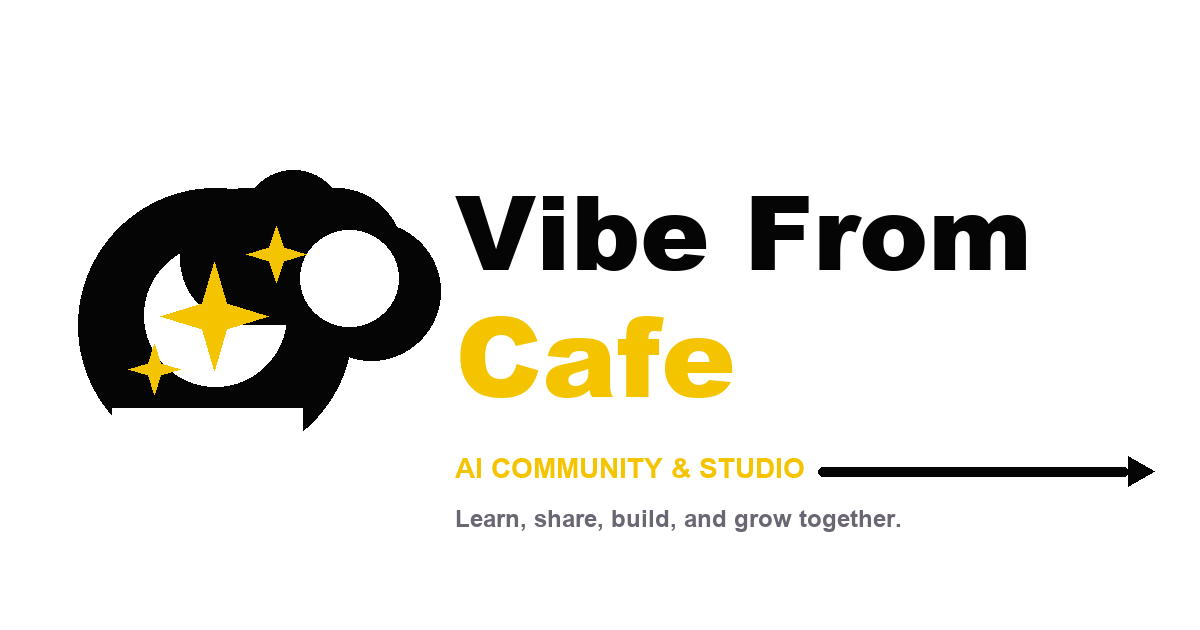
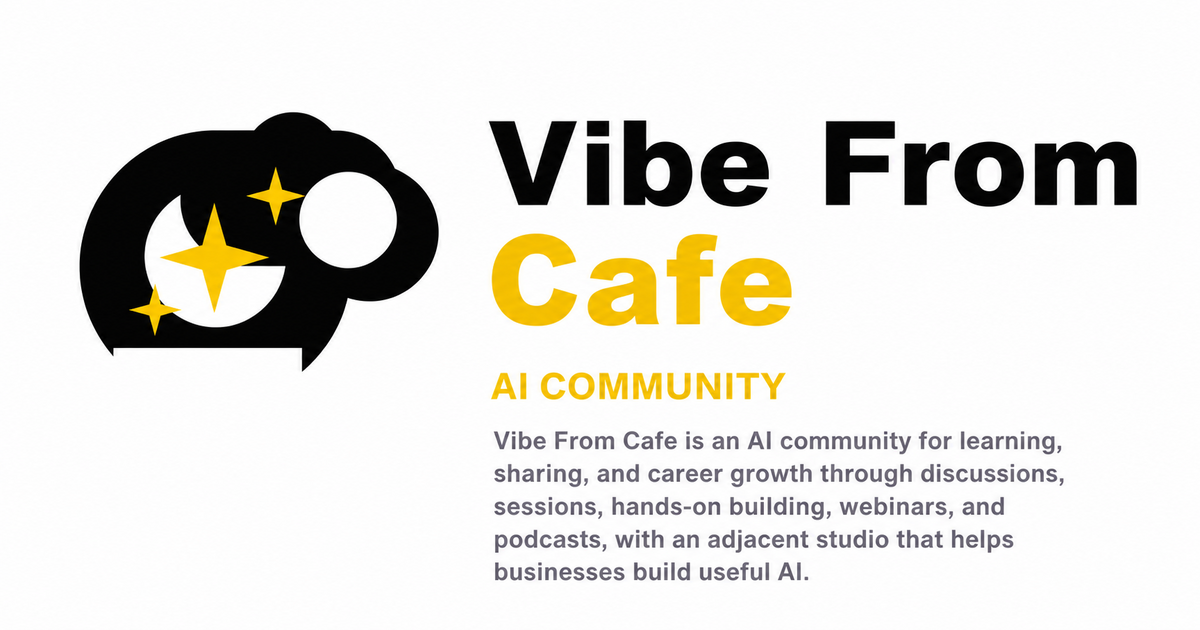
Address VFC positioning audit
Amp-Thread-ID: https://ampcode.com/threads/T-019fdde4-02c4-767e-8d71-99c4dd314758

Changed region(s): [[0.0617, 0.181, 0.9558, 0.6937], [0.37, 0.6635, 0.9558, 0.9349]]

diff --git a/app/routes/_index.tsx b/app/routes/_index.tsx
@@ -9,7 +9,6 @@ import {
   ChevronRight,
   Coffee,
   Code2,
-  Cpu,
   Database,
   ExternalLink,
   MapPin,
@@ -180,16 +179,16 @@ export default function Home() {
 
         <div className="page-shell relative z-10 grid items-center gap-16 pb-24 pt-20 lg:grid-cols-[1.1fr_.9fr] lg:pb-28 lg:pt-24">
           <div>
-            <div className="eyebrow mb-7"><span className="status-dot" /> AI community and studio</div>
+            <div className="eyebrow mb-7"><span className="status-dot" /> Community first. Studio adjacent.</div>
             <h1 className="hero-title max-w-[780px]">
-              Learn AI together. Build AI that <span className="highlight-chip">works.</span>
+              Meet, learn, and grow with AI—<span className="highlight-chip">together.</span>
             </h1>
             <p className="mt-8 max-w-2xl text-lg leading-8 text-white/65 md:text-xl">
-              Vibe From Cafe adalah komunitas AI tempat orang berdiskusi, belajar, bikin sesi, dan tumbuh bersama. Studio kami menerapkan energi itu untuk membantu bisnis membangun solusi yang benar-benar dipakai.
+              Vibe From Cafe is an AI community for learning, sharing, and career growth through discussions, sessions, hands-on building, webinars, and podcasts, with an adjacent studio that helps businesses build useful AI.
             </p>
             <div className="mt-10 flex flex-col gap-3 sm:flex-row">
-              <Link className="button button-primary" to="/contact">Build AI with us <ArrowRight size={18} /></Link>
-              <Link className="button button-ghost" to="/join"><Users size={17} /> Join the community</Link>
+              <Link className="button button-primary" to="/join"><Users size={17} /> Join the community</Link>
+              <Link className="button button-ghost" to="/contact">Work with the studio <ArrowRight size={18} /></Link>
             </div>
             <div className="mt-12 flex flex-wrap items-center gap-x-8 gap-y-4 text-sm text-white/50">
               <span className="flex items-center gap-2"><Users size={17} className="text-yellow" /> 400+ community members</span>
@@ -202,24 +201,26 @@ export default function Home() {
             <div className="absolute -inset-12 rounded-full bg-yellow/15 blur-3xl" />
             <div className="event-card relative rotate-[1.5deg]">
               <div className="flex items-center justify-between border-b border-black/10 px-5 py-4 font-mono text-[11px] font-bold uppercase tracking-[.18em]">
-                <span>Live product / VFC-001</span>
-                <span className="flex items-center gap-2"><span className="size-2 rounded-full bg-[#f34b42]" /> Deployed</span>
+                <span>Community program / VFC</span>
+                <span className="flex items-center gap-2"><span className="size-2 rounded-full bg-[#72d49c]" /> Open</span>
               </div>
               <div className="p-6 sm:p-8">
                 <div className="mb-10 flex items-start justify-between gap-5">
-                  <span className="grid size-14 place-items-center rounded-xl bg-midnight text-yellow"><Cpu size={28} /></span>
-                  <span className="rounded-full border border-black/15 px-3 py-1 font-mono text-[10px] font-bold uppercase tracking-widest">AI customer service</span>
+                  <span className="grid size-14 place-items-center rounded-xl bg-midnight text-yellow"><Users size={28} /></span>
+                  <span className="rounded-full border border-black/15 px-3 py-1 font-mono text-[10px] font-bold uppercase tracking-widest">Across cities & online</span>
                 </div>
-                <p className="font-mono text-xs font-bold uppercase tracking-[.15em] text-black/55">KopiChat</p>
-                <h2 className="mt-3 text-3xl font-bold leading-tight sm:text-4xl">Customer questions, answered in seconds.</h2>
+                <p className="font-mono text-xs font-bold uppercase tracking-[.15em] text-black/55">Learn, share, build, grow</p>
+                <h2 className="mt-3 text-3xl font-bold leading-tight sm:text-4xl">Find your way into AI, together.</h2>
                 <div className="mt-8 grid gap-3 border-t border-black/10 pt-5 text-sm sm:grid-cols-2">
-                  <span className="flex items-center gap-2"><Bot size={16} /> WhatsApp + Web</span>
-                  <span className="flex items-center gap-2"><Check size={16} /> Human handoff</span>
+                  <span className="flex items-center gap-2"><MessageCircle size={16} /> Discussions & sessions</span>
+                  <span className="flex items-center gap-2"><Code2 size={16} /> Hands-on building</span>
+                  <span className="flex items-center gap-2"><Users size={16} /> Webinars & podcasts</span>
+                  <span className="flex items-center gap-2"><Sparkles size={16} /> Career support</span>
                 </div>
               </div>
             </div>
             <div className="absolute -bottom-8 -left-5 -rotate-6 rounded-lg border-2 border-midnight bg-white px-4 py-3 font-mono text-xs font-bold text-midnight shadow-[6px_6px_0_#17131f] sm:-left-10">
-              repetitive work,<br />now automated ↗
+              bring your curiosity,<br />find your people ↗
             </div>
           </div>
         </div>
@@ -240,9 +241,9 @@ export default function Home() {
       <section id="community" className="bg-paper py-24 text-midnight md:py-32">
         <div className="page-shell">
           <div className="mx-auto max-w-4xl text-center">
-            <p className="section-label">/ ONE SHARED ECOSYSTEM</p>
-            <h2 className="section-title mt-5">Satu ekosistem. Dua cara untuk tumbuh <span className="underline-sketch">bersama.</span></h2>
-            <p className="mx-auto mt-7 max-w-2xl text-lg leading-8 text-ink-muted">Komunitas mengasah kemampuan kami. Project nyata mempertajam pengetahuan komunitas. Keduanya saling menghidupkan.</p>
+            <p className="section-label">/ COMMUNITY FIRST</p>
+            <h2 className="section-title mt-5">Satu komunitas, dengan studio yang <span className="underline-sketch">berdampingan.</span></h2>
+            <p className="mx-auto mt-7 max-w-2xl text-lg leading-8 text-ink-muted">Komunitas adalah inti VFC. Studio menjadi jalur terpisah untuk membawa pengalaman itu ke project bisnis nyata.</p>
           </div>
 
           <div className="relative mt-16 grid gap-5 lg:grid-cols-2">
@@ -253,7 +254,7 @@ export default function Home() {
               </div>
               <h3 className="mt-12 max-w-md text-3xl font-semibold leading-tight">Belajar, bereksperimen, dan berkembang bersama pengguna AI lainnya.</h3>
               <ul className="mt-8 space-y-4 text-sm text-ink-muted">
-                {['Cafe meetups dan build sessions', 'Knowledge sharing tanpa gatekeeping', 'Kolaborasi lintas profesi dan kota'].map((item) => <li key={item} className="flex items-center gap-3"><Check size={16} className="text-midnight" strokeWidth={3} /> {item}</li>)}
+                {['Discussions, meetups, dan sessions', 'Hands-on building, webinars, dan podcasts', 'Career support lintas profesi dan kota'].map((item) => <li key={item} className="flex items-center gap-3"><Check size={16} className="text-midnight" strokeWidth={3} /> {item}</li>)}
               </ul>
               <Link className="mt-9 inline-flex items-center gap-2 text-sm font-bold underline underline-offset-4" to="/chapters">Temukan chapter Anda <ArrowRight size={16} /></Link>
             </article>
@@ -265,7 +266,7 @@ export default function Home() {
                 <span className="font-mono text-[11px] font-bold uppercase tracking-[.18em] text-white/45">/ AI Studio</span>
                 <span className="grid size-12 place-items-center rounded-lg bg-white text-midnight"><BrainCircuit size={23} /></span>
               </div>
-              <h3 className="mt-12 max-w-md text-3xl font-semibold leading-tight">Menerapkan kemampuan komunitas untuk menyelesaikan masalah bisnis nyata.</h3>
+              <h3 className="mt-12 max-w-md text-3xl font-semibold leading-tight">Jalur adjacent untuk membantu bisnis membangun AI yang berguna.</h3>
               <ul className="mt-8 space-y-4 text-sm text-white/60">
                 {['Discovery dari masalah, bukan tren', 'Design dan engineering end-to-end', 'Dibangun untuk digunakan di production'].map((item) => <li key={item} className="flex items-center gap-3"><Check size={16} className="text-yellow" strokeWidth={3} /> {item}</li>)}
               </ul>
@@ -493,10 +494,10 @@ export default function Home() {
         <div className="page-shell relative z-10 text-center">
           <span className="inline-flex size-16 rotate-3 items-center justify-center rounded-2xl border-2 border-midnight bg-yellow text-midnight shadow-[5px_5px_0_#150f23]"><Coffee size={30} /></span>
           <h2 className="mx-auto mt-8 max-w-4xl text-5xl font-bold leading-[.98] tracking-[-.05em] sm:text-6xl md:text-7xl">Come to learn. Stay to build something real.</h2>
-          <p className="mx-auto mt-7 max-w-2xl text-lg leading-8 text-black/65">Bergabung dengan komunitas atau ajak kami membangun solusi AI untuk bisnis Anda. Dua pintu, satu ekosistem.</p>
+          <p className="mx-auto mt-7 max-w-2xl text-lg leading-8 text-black/65">Masuk lewat komunitas untuk belajar dan bertumbuh bersama. Jika bisnis Anda membutuhkan partner, studio VFC tersedia sebagai jalur adjacent.</p>
           <div className="mt-10 flex flex-col justify-center gap-3 sm:flex-row">
-            <Link className="button button-dark" to="/contact">Start an AI project <ArrowRight size={18} /></Link>
-            <Link className="button button-outline-dark" to="/join">Join the community</Link>
+            <Link className="button button-dark" to="/join">Join the community <ArrowRight size={18} /></Link>
+            <Link className="button button-outline-dark" to="/contact">Work with the studio</Link>
           </div>
         </div>
       </section>
@@ -506,7 +507,7 @@ export default function Home() {
           <div className="grid gap-12 md:grid-cols-[1.2fr_.8fr_.9fr]">
             <div>
               <Link className="text-2xl font-bold text-yellow" to="/">Vibe From Cafe</Link>
-              <p className="mt-7 max-w-md text-lg leading-8 text-white/50">A support system for tech workers navigating the AI shift -- sambil ngopi bareng.</p>
+              <p className="mt-7 max-w-md text-base leading-7 text-white/50">Vibe From Cafe is an AI community for learning, sharing, and career growth through discussions, sessions, hands-on building, webinars, and podcasts, with an adjacent studio that helps businesses build useful AI.</p>
             </div>
             <div>
               <h2 className="text-xl font-bold">Navigate</h2>

diff --git a/app/routes/about.tsx b/app/routes/about.tsx
@@ -3,7 +3,7 @@ import { PageFrame } from "../components/SiteChrome";
 
 export default function AboutPage() {
   return (
-    <PageFrame eyebrow="/ ABOUT VFC" title="Built around a table, not a stage." intro="Vibe From Cafe is an AI community and studio where people learn, share, build, and grow together.">
+    <PageFrame eyebrow="/ ABOUT VFC" title="Built around a table, not a stage." intro="Vibe From Cafe is an AI community for learning, sharing, and career growth through discussions, sessions, hands-on building, webinars, and podcasts, with an adjacent studio that helps businesses build useful AI.">
       <div className="space-y-5">
         <article className="dark-card"><h2 className="text-2xl font-bold text-yellow">Our story</h2><div className="mt-6 space-y-5 text-lg leading-8 text-white/55"><p>Vibe From Cafe bermula dari kebiasaan sederhana: berbagi rekomendasi cafe produktif supaya kerja makin fokus.</p><p>Dari ngobrol bareng di meja cafe, topiknya makin sering ke AI. Banyak pekerja tech antusias, tetapi juga bingung harus mulai dari mana di tengah perubahan yang cepat.</p><p>Dari situ VFC berkembang menjadi sistem pendukung untuk belajar, bereksperimen, dan tumbuh bersama. Cafe tetap menjadi rumah untuk bertemu, ngobrol, dan mengeksekusi ide.</p></div></article>
         <article className="dark-card"><h2 className="text-2xl font-bold text-yellow">Community focus</h2><ul className="mt-7 space-y-5">{[['AI adoption & hands-on learning', 'Praktik langsung, bukan teori saja.'], ["Builder's disposition", 'Side projects, experimentation, and love of making things.'], ['Career growth in the AI era', 'Membangun skill, portfolio, dan confidence.'], ['Organic talent networking', 'Koneksi yang tumbuh lewat kolaborasi dan trust.']].map(([title, copy]) => <li key={title} className="flex gap-4 text-white/55"><Check className="mt-1 shrink-0 text-yellow" size={18} strokeWidth={3} /><span><strong className="text-white/80">{title}</strong> - {copy}</span></li>)}</ul></article>

diff --git a/app/routes/join.tsx b/app/routes/join.tsx
@@ -80,7 +80,7 @@ export default function JoinPage() {
   }
 
   return (
-    <PageFrame eyebrow="/ JOIN THE COMMUNITY" title="Come to learn. Stay to build something real." intro="Kamu tidak sendirian menghadapi AI shift. Gabung dengan builders lintas profesi dan kota yang belajar bareng.">
+    <PageFrame eyebrow="/ JOIN THE COMMUNITY" title="Come to learn. Stay to build something real." intro="Join discussions, sessions, hands-on builds, webinars, podcasts, and career support with people across professions and cities.">
       <div className="grid gap-8 lg:grid-cols-[1.2fr_.8fr]">
         <div className="dark-card">
           {submitted ? (
@@ -88,7 +88,7 @@ export default function JoinPage() {
               {whatsappInvite?.groupInviteUrl ? (
                 <>
                   <h2 className="text-3xl font-bold text-yellow">You're invited!</h2>
-                  <p className="mx-auto max-w-xl leading-7 text-white/55">We received your details. Join the WhatsApp group now to continue onboarding with the VFC community.</p>
+                  <p className="mx-auto max-w-xl leading-7 text-white/55">We received your details. Join the WhatsApp group to find VFC discussions, sessions, builds, webinars, podcasts, and career support.</p>
                   <a className="button bg-yellow text-midnight" href={whatsappInvite.groupInviteUrl} target="_blank" rel="noreferrer">Join WhatsApp group <ArrowRight size={16} /></a>
                 </>
               ) : (

diff --git a/app/components/SiteChrome.tsx b/app/components/SiteChrome.tsx
@@ -69,7 +69,7 @@ export function SiteFooter() {
         <div className="grid gap-12 md:grid-cols-[1.2fr_.8fr_.9fr]">
           <div>
             <Link className="text-2xl font-bold text-yellow" to="/">Vibe From Cafe</Link>
-            <p className="mt-7 max-w-md text-lg leading-8 text-white/50">A support system for tech workers navigating the AI shift -- sambil ngopi bareng.</p>
+            <p className="mt-7 max-w-md text-base leading-7 text-white/50">Vibe From Cafe is an AI community for learning, sharing, and career growth through discussions, sessions, hands-on building, webinars, and podcasts, with an adjacent studio that helps businesses build useful AI.</p>
           </div>
           <div>
             <h2 className="text-xl font-bold">Navigate</h2>

diff --git a/app/routes/contact.tsx b/app/routes/contact.tsx
@@ -48,7 +48,7 @@ export default function ContactPage() {
   }
 
   return (
-    <PageFrame eyebrow="/ CONTACT" title="Tell us the AI project you want to make real." intro="A lightweight intake for businesses that want VFC to design and build useful AI assistants, automation, or custom products.">
+    <PageFrame eyebrow="/ ADJACENT AI STUDIO" title="Tell us the AI project you want to make real." intro="Separate from our community programs, the adjacent VFC studio helps businesses design and build useful AI assistants, automation, and custom products.">
       <div className="grid gap-8 lg:grid-cols-[1.1fr_.9fr]">
         <div className="dark-card">
           {submitted ? (

diff --git a/app/root.tsx b/app/root.tsx
@@ -8,9 +8,9 @@ import {
 import type { LinksFunction, MetaFunction } from "react-router";
 import "./app.css";
 
-const SITE_TITLE = "Vibe From Cafe - AI Community and Studio";
+const SITE_TITLE = "Vibe From Cafe - AI Community";
 const SITE_DESCRIPTION =
-  "Vibe From Cafe is an AI community and studio where people learn, share, build, and grow together.";
+  "Vibe From Cafe is an AI community for learning, sharing, and career growth through discussions, sessions, hands-on building, webinars, and podcasts, with an adjacent studio that helps businesses build useful AI.";
 
 export const meta: MetaFunction = () => [
   { title: SITE_TITLE },

diff --git a/functions/api/admin/submissions.ts b/functions/api/admin/submissions.ts
@@ -12,7 +12,7 @@ type StoredSubmission = Omit<Submission, "invitationStatus"> & {
 
 const SUBMISSION_PREFIX = "submission:";
 const DEFAULT_WHATSAPP_INVITE_MESSAGE =
-  "Hi {{name}}, welcome to Vibe From Cafe. Join our WhatsApp community here: {{group_link}}";
+  "Hi {{name}}, welcome to Vibe From Cafe. Join our community for discussions, sessions, hands-on building, webinars, podcasts, and career support: {{group_link}}";
 
 const STATUS_FLOW: Record<SubmissionStatus, SubmissionStatus[]> = {
   signed_up: ["signed_up", "invited"],

diff --git a/functions/api/join.ts b/functions/api/join.ts
@@ -16,7 +16,7 @@ interface SubmissionBody {
 }
 
 const DEFAULT_WHATSAPP_INVITE_MESSAGE =
-  "Hi {{name}}, welcome to Vibe From Cafe. Join our WhatsApp community here: {{group_link}}";
+  "Hi {{name}}, welcome to Vibe From Cafe. Join our community for discussions, sessions, hands-on building, webinars, podcasts, and career support: {{group_link}}";
 
 function resolveInviteConfig(env: Env) {
   return {

diff --git a/README.md b/README.md
@@ -2,6 +2,8 @@
 
 Public site and Cloudflare Pages app for Vibe From Cafe.
 
+Vibe From Cafe is an AI community for learning, sharing, and career growth through discussions, sessions, hands-on building, webinars, and podcasts, with an adjacent studio that helps businesses build useful AI.
+
 This repository keeps the current VFC visual design while using the same operational architecture as `zainfathoni/vibefromcafe`: React Router framework mode, Cloudflare Pages, Pages Functions, and Cloudflare KV-backed runtime data.
 
 ## Repository status
@@ -78,8 +80,10 @@ Variables:
 
 ```toml
 [vars]
-WHATSAPP_INVITE_MESSAGE_TEMPLATE = "Halo {{name}}! Selamat datang di Vibe From Cafe. Yuk gabung ke grup komunitas kami di sini: {{group_link}}"
+WHATSAPP_INVITE_MESSAGE_TEMPLATE = "Halo {{name}}! Selamat datang di Vibe From Cafe. Gabung untuk diskusi, sesi, hands-on building, webinar, podcast, dan dukungan karier: {{group_link}}"
 ```
+
+This is the repository default. The value available to a deployed Function comes from that Pages deployment's runtime configuration and may differ from the repository, including an older or environment-specific override. Before cutover, an owner must verify `WHATSAPP_INVITE_MESSAGE_TEMPLATE` in both preview and production Cloudflare Pages environments without copying private invite URLs or secrets into the repository or PR.
 
 Admin access is protected in deployed environments by Cloudflare Access.
 
@@ -125,9 +129,12 @@ pnpm build
 
 Cloudflare Pages should use:
 
+- Preserved Pages project identifier: `vcfc-cloudflare-revamp`
 - Build command: `pnpm build`
 - Build output directory: `build/client`
 - Functions directory: `functions`
 - KV binding: `VFC_SUBMISSIONS`
 
-Use a staging Pages project and staging KV namespace first. Replace the placeholder KV namespace id in `wrangler.toml` before deploying.
+Use a staging Pages project and staging KV namespace first. Verify the configured KV namespace belongs to the intended environment before deploying.
+
+The project name intentionally retains the historical `vcfc-cloudflare-revamp` identifier. Cloudflare defines `name` as the Pages project name, so changing it as a cosmetic brand cleanup could target a different project. Renaming or creating a Pages project requires a separate, verified Cloudflare cutover decision; this repository change does neither.

diff --git a/CONTEXT.md b/CONTEXT.md
@@ -1,7 +1,7 @@
 # Context Glossary
 
 ## Brand
-Vibe From Cafe is an AI community and studio where people learn, share, build, and grow together.
+Vibe From Cafe is an AI community for learning, sharing, and career growth through discussions, sessions, hands-on building, webinars, and podcasts, with an adjacent studio that helps businesses build useful AI.
 
 ## Domain
 `vibefromcafe.id` is the public web domain for the Brand.
